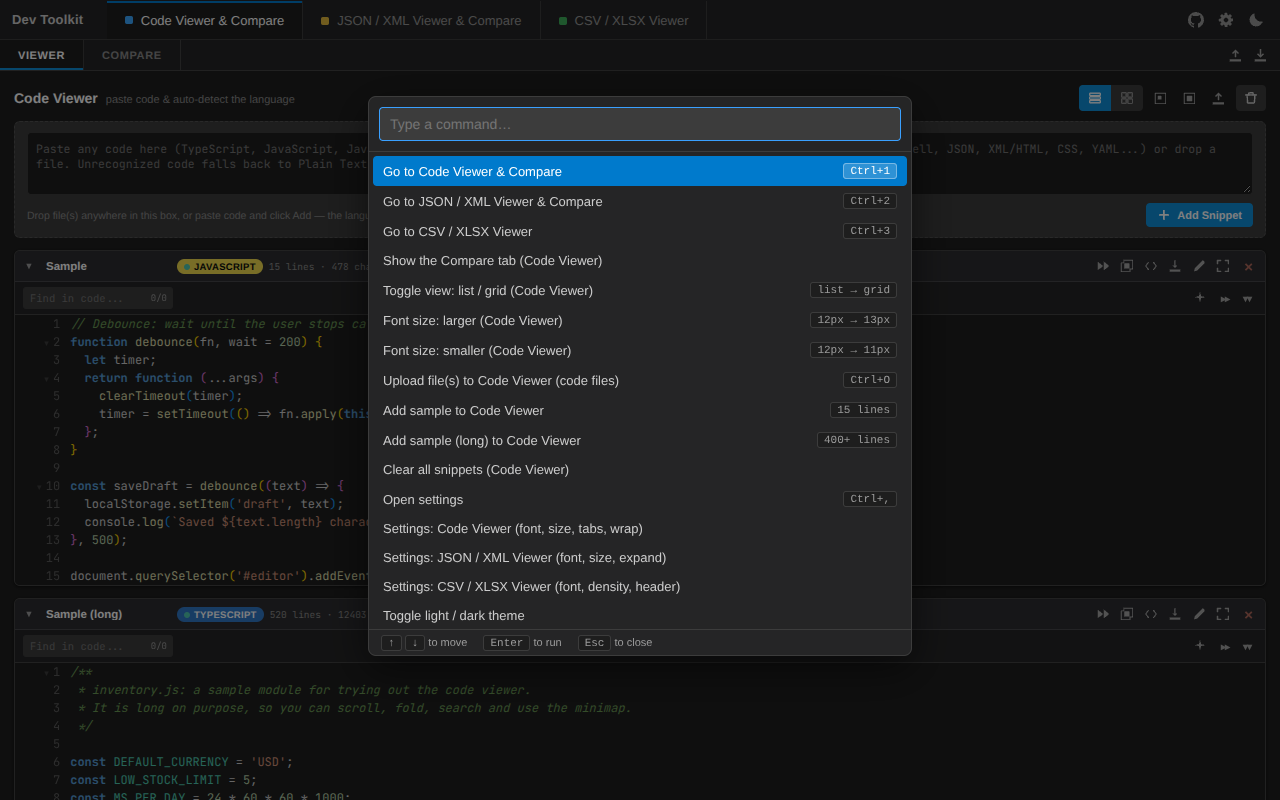
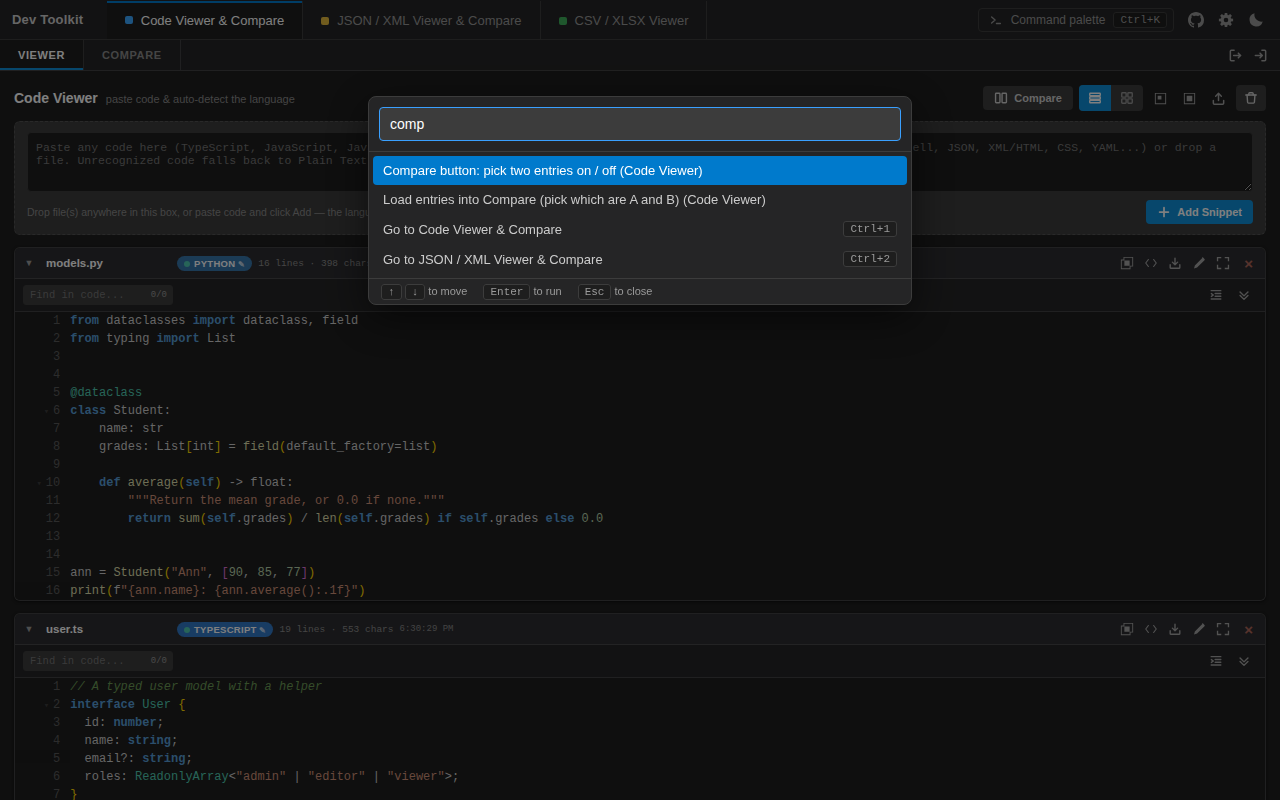
updated readme

diff --git a/README.md b/README.md
@@ -132,20 +132,28 @@ Open it, press <kbd>Ctrl</kbd>+<kbd>K</kbd>, type `add sample`, and press Enter 
 
 <table>
   <tr>
-    <td width="50%"><b>Code viewer</b><br><img src="docs/code-viewer.png" alt="Code viewer with a highlighted JavaScript snippet"></td>
+    <td width="50%"><b>Code viewer</b><br><img src="docs/code-viewer.png" alt="Code viewer with two highlighted snippets"></td>
     <td width="50%"><b>Compare (side by side)</b><br><img src="docs/compare.png" alt="Two code panels and a side-by-side diff"></td>
   </tr>
   <tr>
-    <td><b>JSON / XML viewer</b><br><img src="docs/json-viewer.png" alt="JSON shown as a collapsible tree"></td>
-    <td><b>CSV / XLSX viewer</b><br><img src="docs/sheets-viewer.png" alt="A CSV file shown as a table"></td>
+    <td width="50%"><b>JSON / XML viewer</b><br><img src="docs/json-viewer.png" alt="JSON shown as a collapsible tree with a minimap"></td>
+    <td width="50%"><b>CSV / XLSX viewer</b><br><img src="docs/sheets-viewer.png" alt="A CSV file shown as a table"></td>
   </tr>
   <tr>
-    <td><b>Command palette</b><br><img src="docs/command-palette.png" alt="The command palette listing commands for the current tool"></td>
-    <td><b>Settings with live preview</b><br><img src="docs/settings.png" alt="The settings dialog showing the code viewer options and a preview"></td>
+    <td width="50%"><b>Command palette</b><br><img src="docs/command-palette.png" alt="The command palette with search results"></td>
+    <td width="50%"><b>Color palettes in Settings</b><br><img src="docs/settings.png" alt="Settings General page with the color palette cards and a live preview"></td>
   </tr>
   <tr>
-    <td><b>Reading code from a screenshot (OCR)</b><br><img src="docs/ocr.png" alt="The OCR dialog with a screenshot on the left and the recognized code on the right"></td>
-    <td><b>Light theme</b><br><img src="docs/json-viewer-light.png" alt="JSON viewer in the light theme"></td>
+    <td width="50%"><b>Color palette picker (live preview)</b><br><img src="docs/palette-picker.png" alt="The palette picker listing System and each color palette"></td>
+    <td width="50%"><b>Keyboard shortcuts and aliases</b><br><img src="docs/shortcuts.png" alt="Settings keyboard shortcuts page with the Alias column"></td>
+  </tr>
+  <tr>
+    <td width="50%"><b>Compare button: pick two entries</b><br><img src="docs/compare-pick.png" alt="JSON viewer waiting for two entries to be clicked"></td>
+    <td width="50%"><b>Add a sample by language</b><br><img src="docs/sample-language.png" alt="The sample by language picker with Short and Long"></td>
+  </tr>
+  <tr>
+    <td width="50%"><b>Reading code from a screenshot (OCR)</b><br><img src="docs/ocr.png" alt="The OCR dialog with a screenshot on the left and the recognized code on the right"></td>
+    <td width="50%"><b>Light theme</b><br><img src="docs/json-viewer-light.png" alt="JSON viewer in the light theme"></td>
   </tr>
 </table>
 
@@ -354,6 +362,7 @@ devtools/
 ├── code.html               Code Viewer & Compare
 ├── json.html               JSON / XML Viewer & Compare
 ├── xlsx.html               CSV / XLSX Viewer & Compare
+├── samples.js              Sample data (code, JSON and table templates) used by the sample commands
 ├── manifest.json           Web app manifest (name, colours, icons) for "Install app"
 ├── sw.js                   Tiny service worker that only enables installing; caches nothing
 ├── fonts/                  Included fonts (.woff2) and their licenses
@@ -372,6 +381,7 @@ devtools/
 
 - **Talking to the tools.** The shell and the tool pages exchange `postMessage` messages (all prefixed `__devToolkit`). The shell sends theme, settings and commands; the tools report their state (for example, which sub-tab is showing) and forward shortcut keys. When the pages share an origin, the shell also listens for keys and calls tool functions directly, so it keeps working even if a tool page is out of date.
 - **A small runtime in every tool page** (`window.DT`) applies the settings as CSS variables, forwards shortcuts, and exposes the hooks the palette uses (clear, toggle view, upload, add sample).
+- **Sample data** lives in `samples.js`, loaded by the shell with `<script src="samples.js" defer>`; the random JSON, table and code samples are built from it, with no network needed.
 - **Storage.** A small IndexedDB layer in each tool page saves one record per item, writes only what changed, and never blocks the UI. It shows a visible warning if a write fails, and it migrates data from the older `localStorage` format automatically.
 - **Settings** live in one `localStorage` key, read by the tool pages before they first paint, so there is no flash of the wrong theme.
 - **Page versions.** The shell loads each tool with a `?v=<build>` suffix so a browser can never pair a new shell with an old cached tool page. If a tool page does not answer at all, a notice explains what to re-upload.
@@ -401,7 +411,7 @@ Browsers and GitHub Pages cache files for a few minutes. Wait a minute or two, t
 <details>
 <summary><b>A red "Some Dev Toolkit files are out of date" notice appears.</b></summary>
 
-One of the tool pages did not respond to the shell, which usually means an old copy is being used. Make sure `index.html`, `code.html`, `json.html` and `xlsx.html` were all uploaded together, then hard-refresh.
+One of the tool pages did not respond to the shell, which usually means an old copy is being used. Make sure `index.html`, `code.html`, `json.html`, `xlsx.html` and `samples.js` were all uploaded together, then hard-refresh.
 </details>
 
 <details>
@@ -446,7 +456,7 @@ Not promises, just things that would fit:
 - Shareable links for small snippets
 - Column statistics and quick charts for tables
 - A "Utilities" tab (Base64, JWT decoder, timestamps, regex tester)
-- More palette commands (Compare now, Swap panels, and others)
+- More palette commands (Swap panels, Copy a diff, and others) and more color palettes
 
 ## Contributing
 
